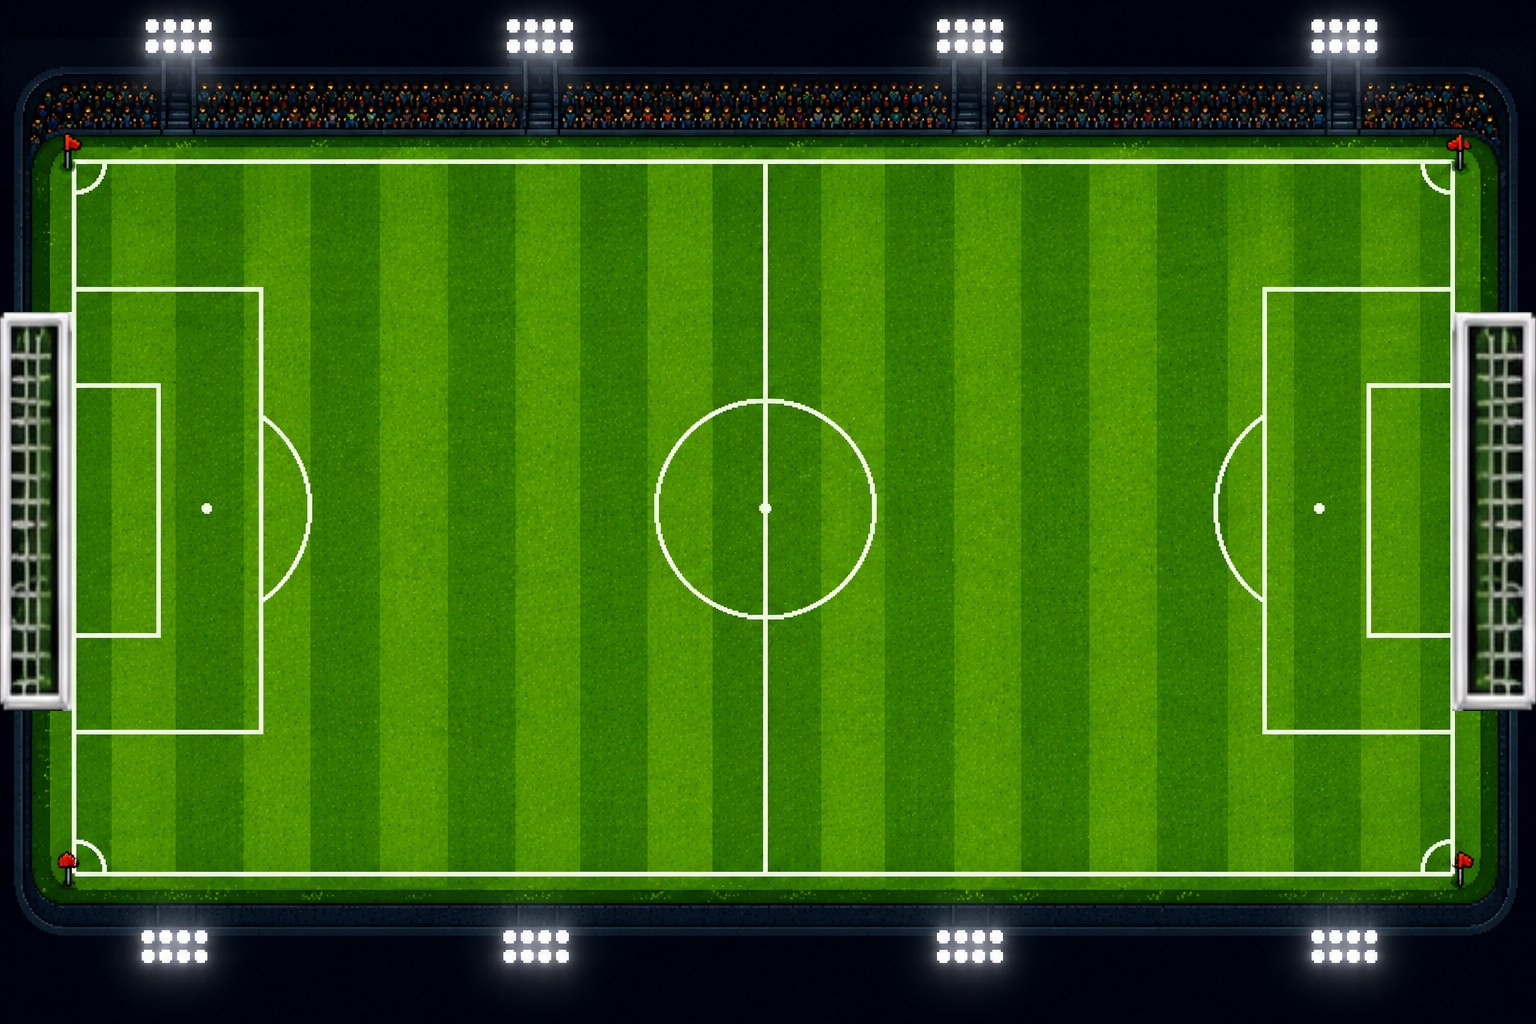
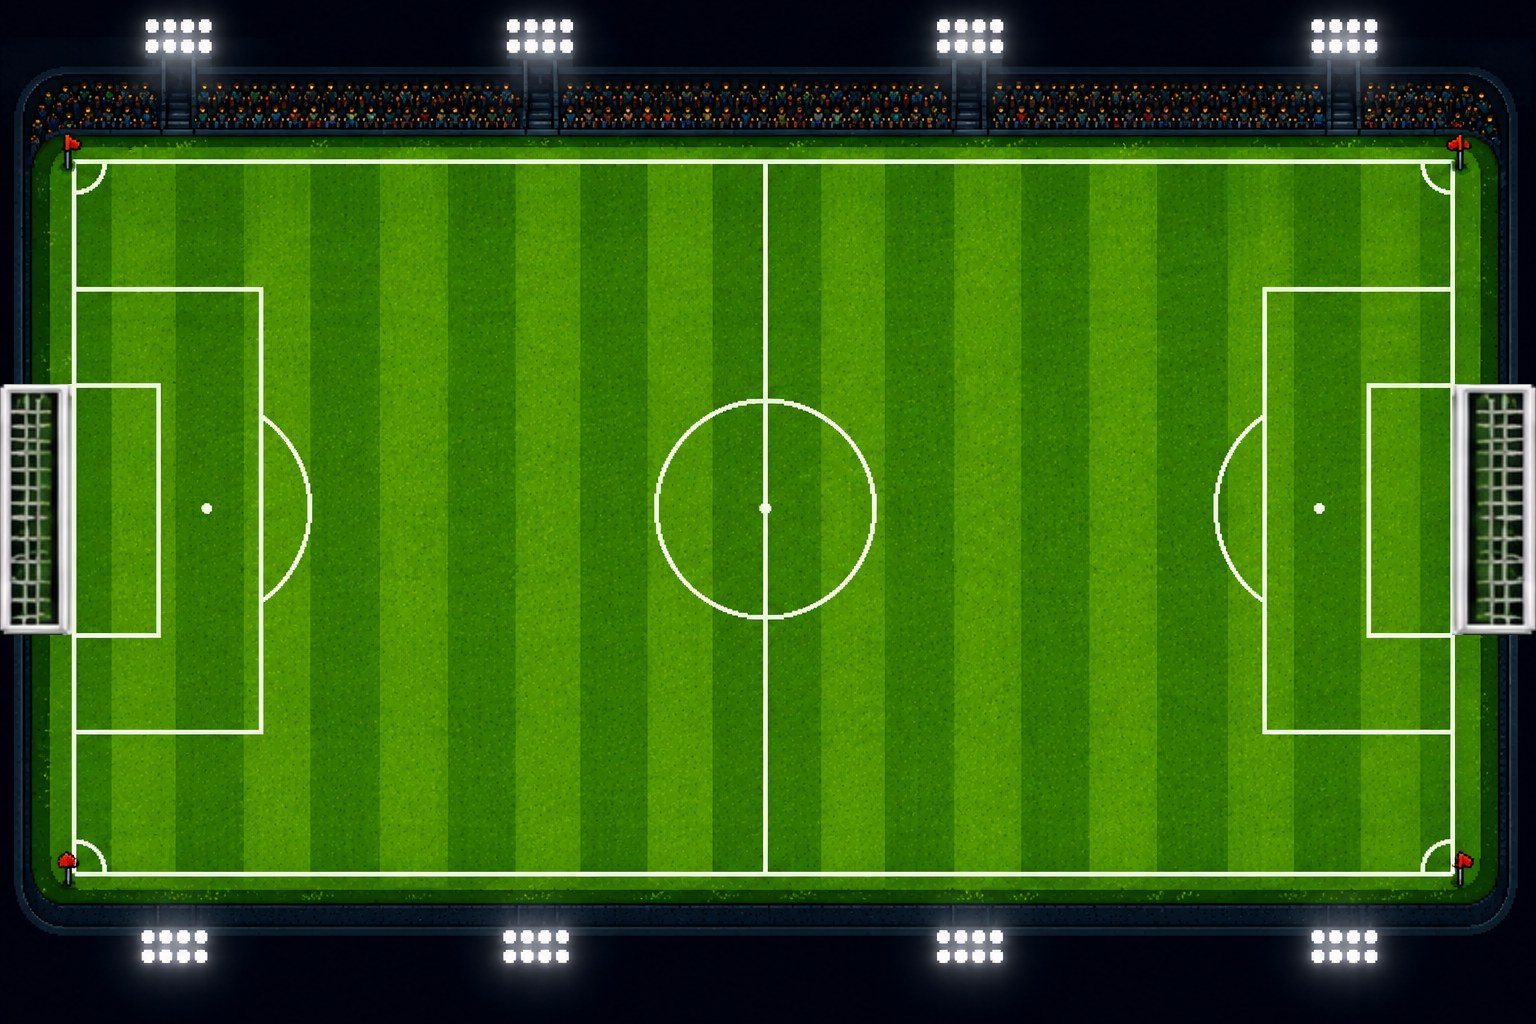
Fix goal width measurement bug and clamp player feet (not head) to the touchline
- checkGoals/GOAL_WIDTH were calibrated off a scan that caught bright
  light-green grass-stripe pixels instead of a real line - the pitch's
  touchline has no actual gap at the goal, it's continuous. Recalibrate
  to the six-yard box height instead (a real, unambiguous line) and
  resize the composited net to match it instead of the old oversized span
- Change the player sideline clamp to align the sprite's shadow (the
  visual feet/ground-contact point, 28px below its own y) with the
  touchline instead of the sprite's vertical center - feet now touch
  the line on both sides, with the head naturally overlapping the
  crowd at the top (since it sits above the feet) while staying fully
  on-pitch at the bottom

Changed region(s): [[0.9375, 0.2812, 1.0, 0.7188], [0.0, 0.2812, 0.0625, 0.7188]]

diff --git a/server/server.js b/server/server.js
@@ -33,7 +33,7 @@ const FIELD = { w: 1600, h: 800 };
 // depth-limited by how much margin was available between the touchline and
 // the image edge), scaled into FIELD-space by the same per-axis stretch the
 // client applies to fit the art to the canvas
-const GOAL_WIDTH = 312;
+const GOAL_WIDTH = 196;
 const PITCH = { x: 75, y: 125, w: 1438, h: 559 };
 // how far into the goal net (past PITCH's x bounds) the ball may travel
 // before hitting the net's actual back wall in the art - previously a flat
@@ -281,15 +281,18 @@ function checkBallStall(room, now) {
   }
 }
 
-// half the character sprite's own height (CHAR_H=68 in www/index.html) -
-// clamping the sideline by this instead of PLAYER_R keeps the drawn sprite's
-// edge (not just its smaller invisible collision circle) from crossing the
-// touchline, so the character visually stops flush at the line
-const CHAR_HALF_H = 34;
+// the sprite's shadow (the visual "feet"/ground-contact point) sits 28px
+// below the entity's own y in screen space (see the +28 in ensureEntitySprite
+// in www/index.html) - clamping so the SHADOW lands on the touchline (not the
+// entity's y, which is the sprite's vertical center) means the feet actually
+// touch the line. Since the head sits above the feet, this naturally pushes
+// the head/body into the crowd at the top line while keeping the whole body
+// on-pitch at the bottom line - that asymmetry is correct, not a bug.
+const SHADOW_OFFSET = 28;
 
 function clampToPitch(e) {
   const minX = PITCH.x + PLAYER_R, maxX = PITCH.x + PITCH.w - PLAYER_R;
-  const minY = PITCH.y + CHAR_HALF_H, maxY = PITCH.y + PITCH.h - CHAR_HALF_H;
+  const minY = PITCH.y - SHADOW_OFFSET, maxY = PITCH.y + PITCH.h - SHADOW_OFFSET;
   e.x = clampNum(e.x, minX, maxX);
   e.y = clampNum(e.y, minY, maxY);
 }
